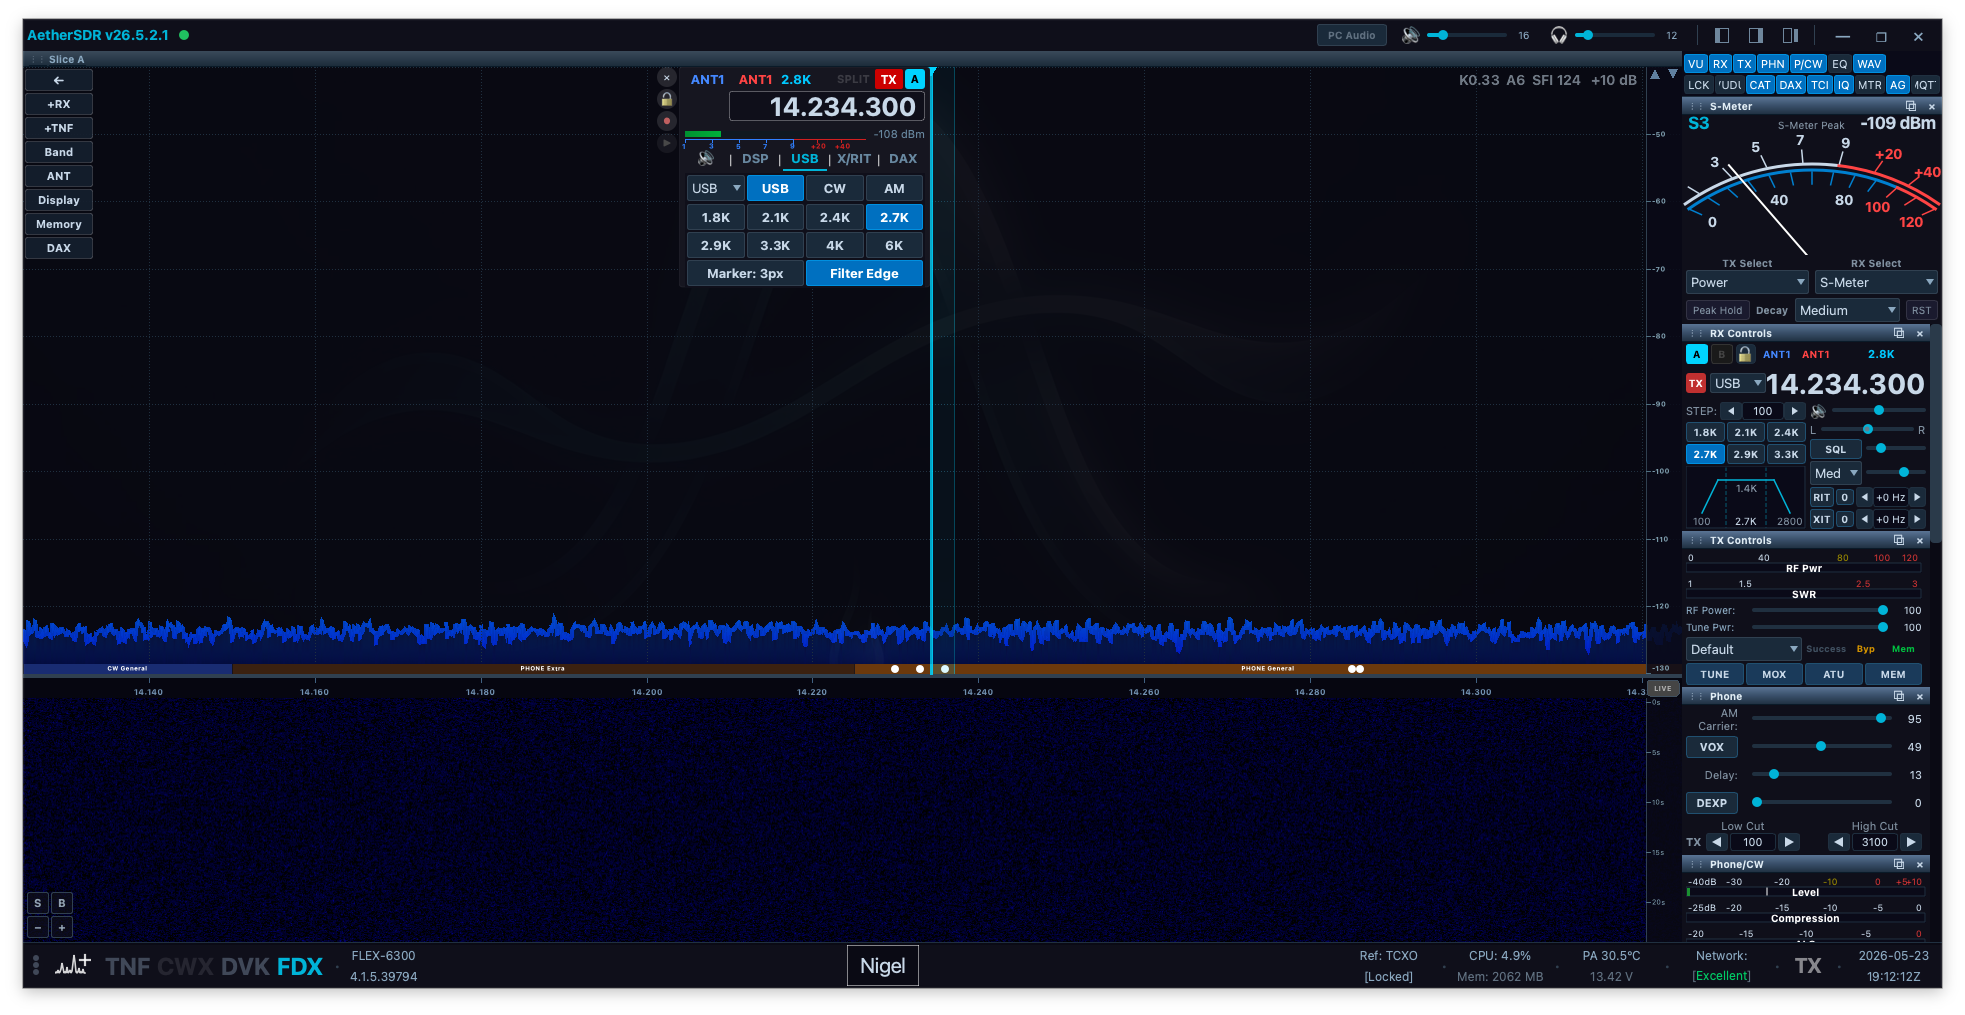
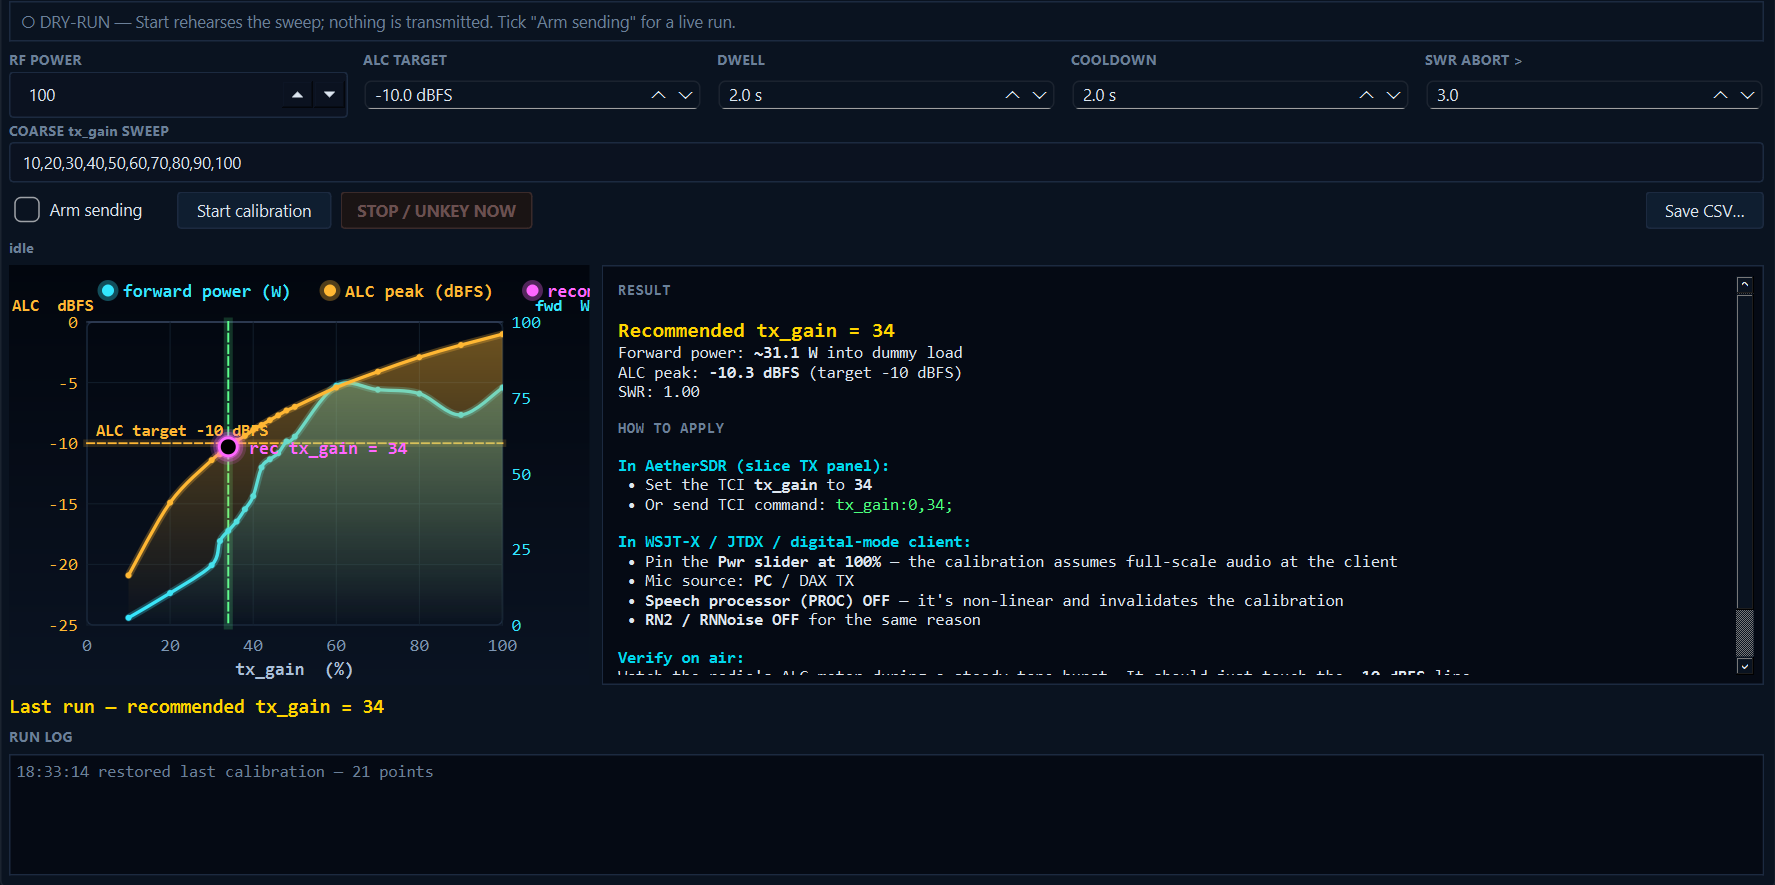
docs(readme): replace the TX Cal image, which was an AetherSDR screenshot
docs/tx-cal-curve.png showed AetherSDR v26.5.2.1, not Shack Bench. Replaced
with a crop of a real TX Cal run (Flex 6300 into a dummy load, recommended
tx_gain = 34), trimmed to the panel so the old 'TCI Monitor' title and the
unshipped Signal/Waterfall ID tabs aren't shown.

Changed region(s): [[0.0, 0.0, 1.0, 1.0], [0.3408, 0.3661, 0.5577, 0.4881]]

diff --git a/README.md b/README.md
@@ -145,7 +145,7 @@ or below a configurable target (default −10 dBFS), and recommends a
 single `tx_gain` value to apply.  The injected test tone is generated
 inside the panel as TCI TX-audio frames — no external harness required.
 
-![TX Cal panel — calibration curve and "how to apply" guidance](docs/tx-cal-curve.png)
+![TX Cal panel — a real calibration run on a Flex 6300 into a dummy load: forward power and ALC peak against tx_gain, with the recommended tx_gain = 34 and how to apply it](docs/tx-cal-curve.png)
 
 The result is shown as a curve (forward power and ALC peak vs `tx_gain`)
 alongside a step-by-step "how to apply" panel — including the exact TCI
